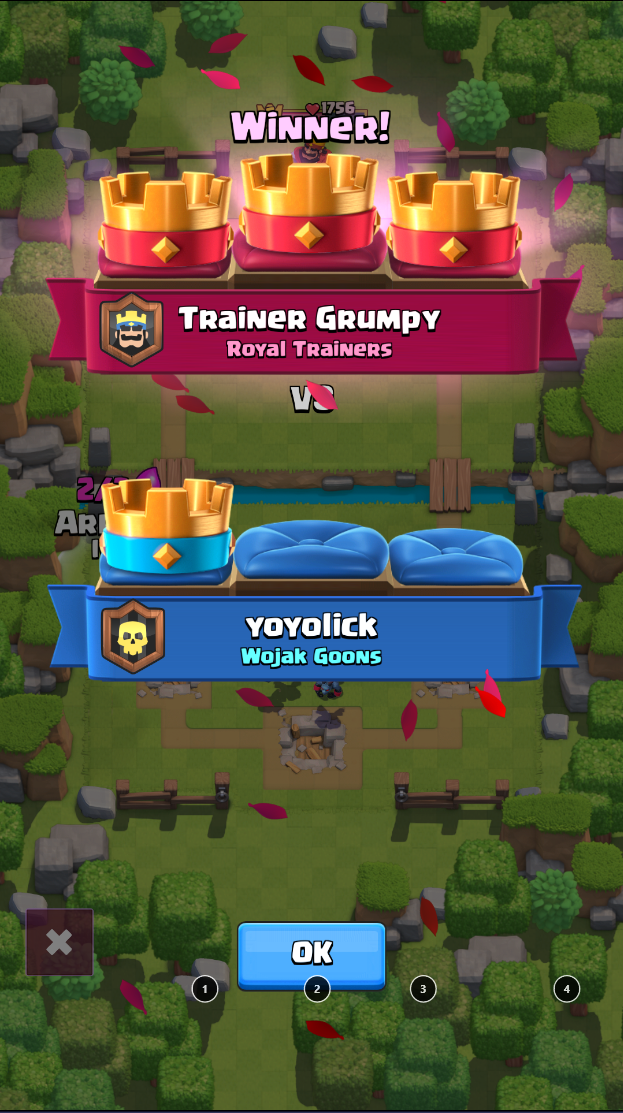
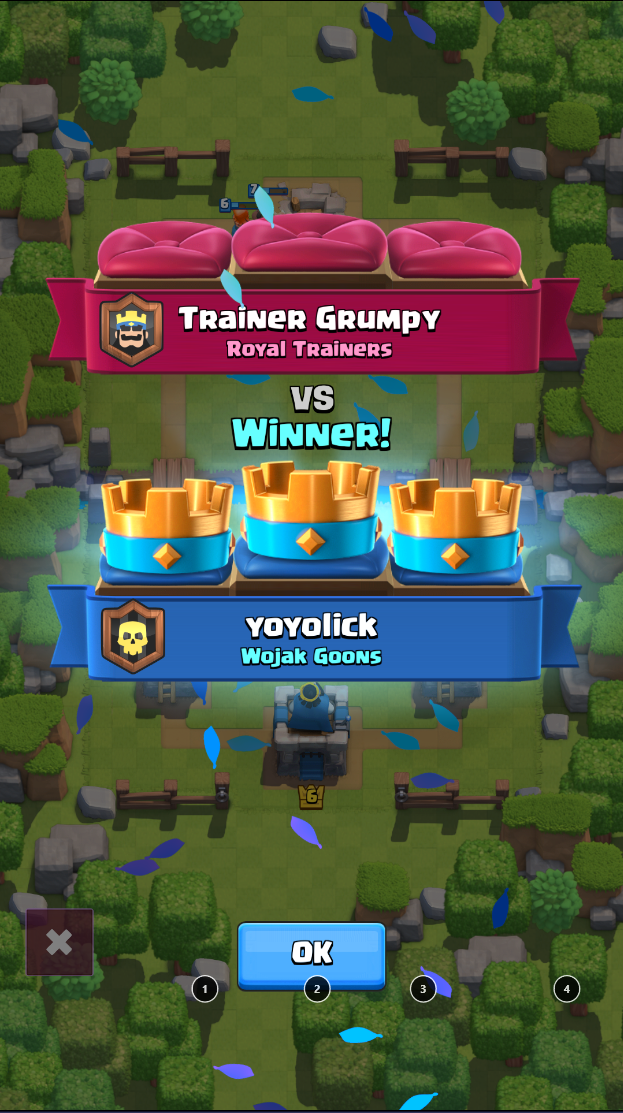
:crown: First AI victory has been achieved

diff --git a/main.py b/main.py
@@ -227,6 +227,24 @@ def placeCard(location, cardIndex):
         usedFTHC = True
 
 
+# BASIC STATEGIES
+
+# pick the cheapest presented card at all times and place it
+def placeCheapestCard():
+    possibleCards = [
+        int(firstCardCost),
+        int(secondCardCost),
+        int(thirdCardCost),
+        int(fourthCardCost),
+    ]
+    # get index of smallest item in list
+    cardNumber = (
+        possibleCards.index(min(possibleCards)) + 1
+    )  # add one because lists start at 0
+
+    placeCard("leftAboveTower", cardNumber)
+
+
 if __name__ == "__main__":
     while True:
         # get a screenshot of the playfield
@@ -250,9 +268,7 @@ if __name__ == "__main__":
         )
         time.sleep(1)
 
-        # rudementary test ai TODO how costly is transforming to int?
-        if int(elixerStoreValue) >= int(firstCardCost):
-            placeCard("leftAboveTower", 1)
+        placeCheapestCard()
 
         # emergency abort
         if keyboard.is_pressed("q"):
@@ -270,3 +286,10 @@ if __name__ == "__main__":
 # - maybe put filters on image one time and crop from that to make easier? wait maybe not due to differing thresholds
 # - refactor code, you copy paste like a bitch and this needs to be optimized
 # - TODO next step: isolate red pixels on screen to detect enemies
+# TODO how costly is transforming to int?
+
+# WHERE I LEFT OFF
+# wrote a very basic attack pattern of spamming left lane
+# WHAT YOU SHOULD DO:
+# write more attack patterns for fun
+# start detecting enemies and countering (detect via clusters or something maybe) red filter over playfield
